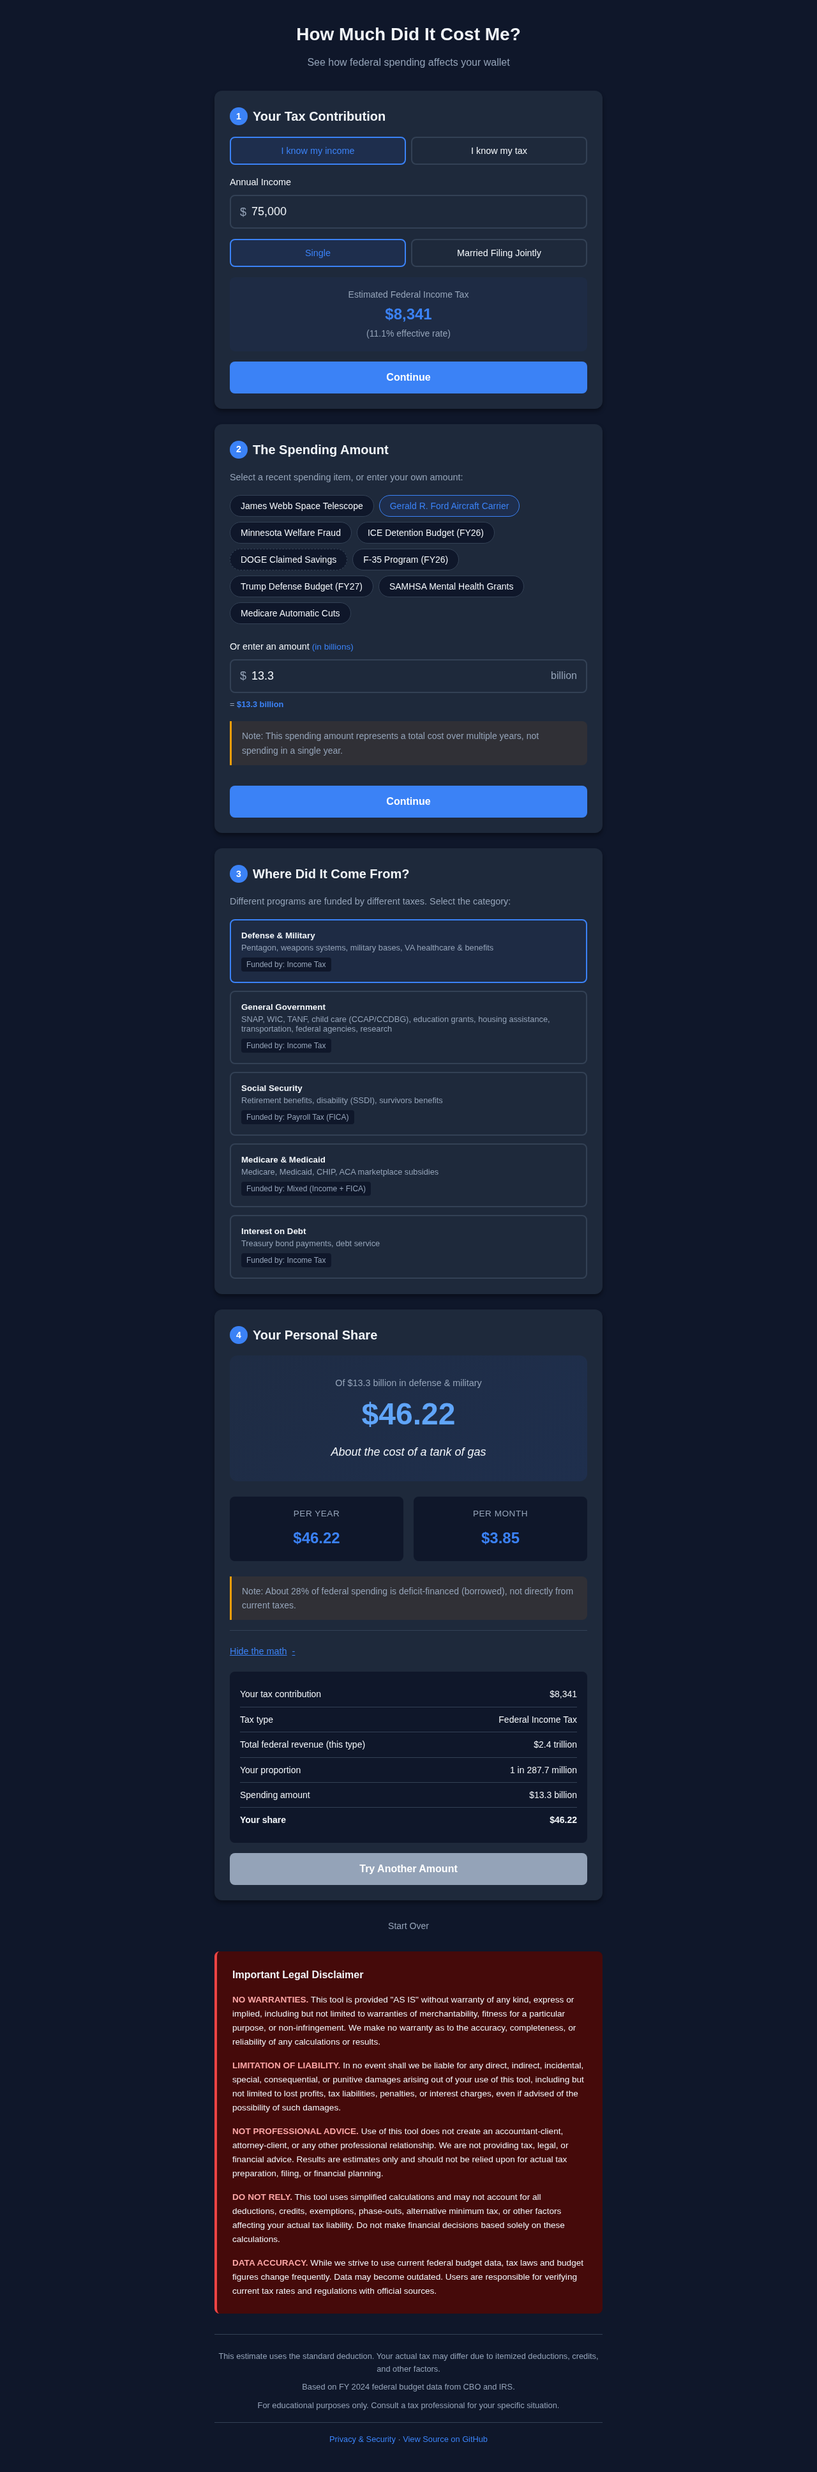
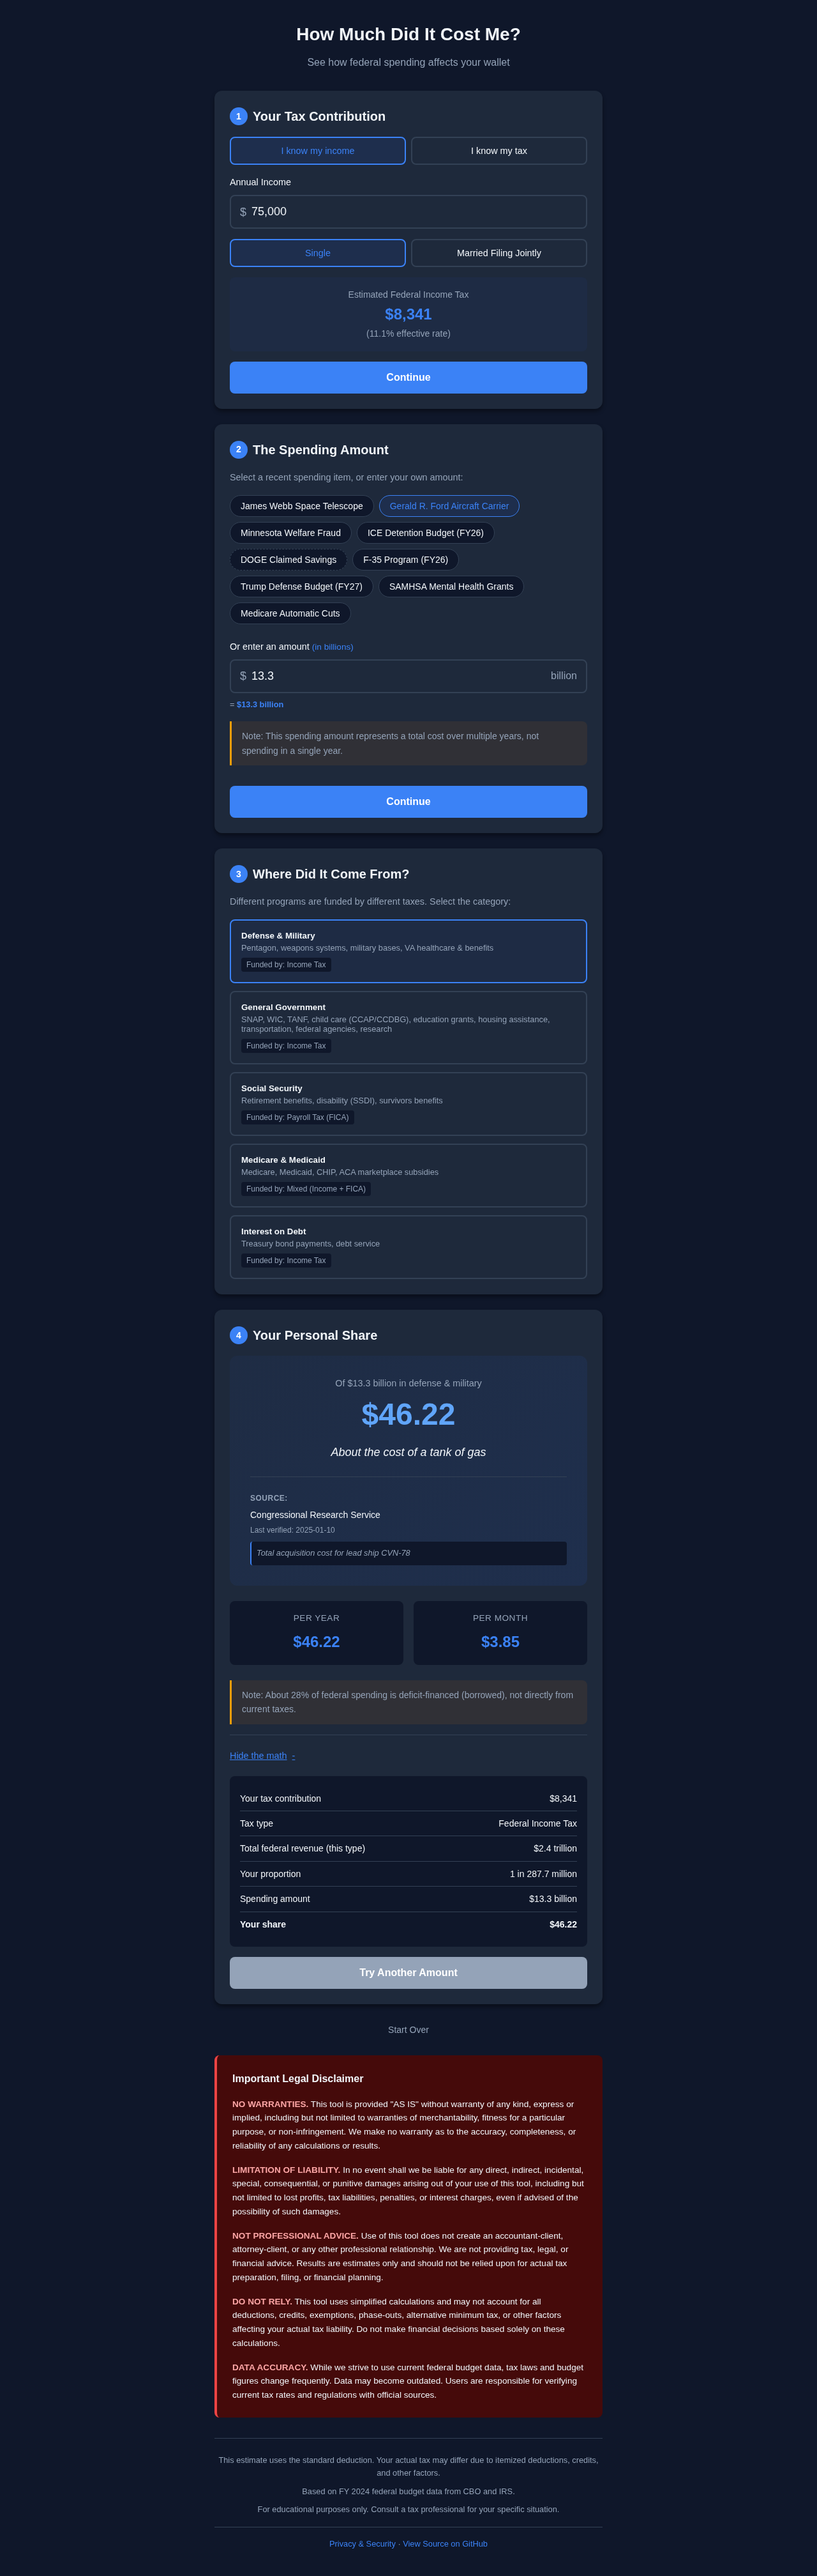
Add source annotations to spending items
Display data sources for weekly trending spending figures throughout the UI:
- Chips show source and verification date on hover (browser tooltip)
- Results page displays full source info with notes when item is selected
- Source info automatically updates when weekly workflow adds new data
- Manual spending entries correctly show no source information

Changed region(s): [[0.25, 0.0, 0.75, 0.9922], [0.5312, 0.0, 0.625, 0.062]]

diff --git a/js/app.js b/js/app.js
@@ -43,7 +43,8 @@ const app = {
     spendingAmount: 0,
     category: null,
     isMultiYear: false, // tracks if selected spending is multi-year
-    isSavings: false    // tracks if selected item is a savings (vs spending)
+    isSavings: false,   // tracks if selected item is a savings (vs spending)
+    selectedItemSource: null // tracks source info for selected item
   },
 
   // Initialize the app
@@ -214,9 +215,10 @@ const app = {
     const actualAmount = billions * 1_000_000_000;
     this.state.spendingAmount = actualAmount;
 
-    // Manual input is not multi-year and not savings
+    // Manual input is not multi-year, not savings, and has no source
     this.state.isMultiYear = false;
     this.state.isSavings = false;
+    this.state.selectedItemSource = null;
     document.getElementById('multiYearNote').style.display = 'none';
 
     // Update the hint to show the full dollar amount
@@ -276,25 +278,44 @@ const app = {
 
     container.innerHTML = '';
     EXAMPLE_AMOUNTS.forEach((item, index) => {
+      // Find the corresponding entry in NOTABLE_SPENDING to get source info
+      let sourceInfo = null;
+      for (const key in NOTABLE_SPENDING) {
+        if (NOTABLE_SPENDING[key].label === item.label) {
+          sourceInfo = NOTABLE_SPENDING[key];
+          break;
+        }
+      }
+
       const btn = document.createElement('button');
       btn.type = 'button';
       btn.className = item.isSavings ? 'chip savings' : 'chip';
       btn.dataset.index = index;
       btn.dataset.value = item.value;
       btn.dataset.savings = item.isSavings ? 'true' : 'false';
+
+      // Add source information as data attribute and tooltip
+      if (sourceInfo) {
+        btn.dataset.source = sourceInfo.source;
+        btn.dataset.lastVerified = sourceInfo.lastVerified;
+        btn.dataset.notes = sourceInfo.notes || '';
+        btn.title = `Source: ${sourceInfo.source}\nLast verified: ${sourceInfo.lastVerified}`;
+      }
+
       btn.textContent = item.label;
-      btn.onclick = () => this.selectChip(index, item.value, item.category || null, item.multiYear || false, item.isSavings || false);
+      btn.onclick = () => this.selectChip(index, item.value, item.category || null, item.multiYear || false, item.isSavings || false, sourceInfo);
       container.appendChild(btn);
     });
   },
 
   // Select a chip and highlight it
-  selectChip(index, amount, category, multiYear = false, isSavings = false) {
+  selectChip(index, amount, category, multiYear = false, isSavings = false, sourceInfo = null) {
     // Update visual selection
     document.querySelectorAll('#spendingChips .chip').forEach(chip => {
       chip.classList.toggle('selected', chip.dataset.index === String(index));
     });
     this.state.selectedChipIndex = index;
+    this.state.selectedItemSource = sourceInfo;
 
     // Set the spending amount
     this.setSpending(amount, category, multiYear, isSavings);
@@ -349,6 +370,20 @@ const app = {
       document.getElementById('resultCategory').textContent = result.category.toLowerCase();
     }
     document.getElementById('resultShare').textContent = formatCurrency(result.yourShare);
+
+    // Update source information if available
+    const sourceEl = document.getElementById('resultSource');
+    if (this.state.selectedItemSource && this.state.selectedItemSource.source) {
+      sourceEl.innerHTML = `
+        <div class="source-label">Source:</div>
+        <div class="source-text">${this.state.selectedItemSource.source}</div>
+        <div class="source-verified">Last verified: ${this.state.selectedItemSource.lastVerified}</div>
+        ${this.state.selectedItemSource.notes ? `<div class="source-notes">${this.state.selectedItemSource.notes}</div>` : ''}
+      `;
+      sourceEl.style.display = 'block';
+    } else {
+      sourceEl.style.display = 'none';
+    }
 
     // Get comparison
     const annualTax = this.state.incomeTax + this.state.ficaTax;
@@ -432,7 +467,8 @@ const app = {
       spendingAmount: 0,
       category: null,
       isMultiYear: false,
-      isSavings: false
+      isSavings: false,
+      selectedItemSource: null
     };
 
     // Reset UI

diff --git a/css/styles.css b/css/styles.css
@@ -269,6 +269,7 @@ header p {
   font-size: 0.875rem;
   transition: all 0.2s;
   color: var(--color-text);
+  position: relative;
 }
 
 .chip:hover {
@@ -301,6 +302,11 @@ header p {
   border-color: var(--color-success);
   border-style: solid;
   color: var(--color-success);
+}
+
+/* Chip tooltips - browser native title attribute will be used */
+.chip[title] {
+  cursor: help;
 }
 
 /* Category Selector */
@@ -386,6 +392,45 @@ header p {
   color: var(--color-text);
   margin-top: 1rem;
   font-style: italic;
+}
+
+.result-source {
+  margin-top: 1.5rem;
+  padding-top: 1.5rem;
+  border-top: 1px solid var(--color-border);
+  text-align: left;
+}
+
+.source-label {
+  font-size: 0.75rem;
+  font-weight: 600;
+  text-transform: uppercase;
+  letter-spacing: 0.5px;
+  color: var(--color-text-muted);
+  margin-bottom: 0.25rem;
+}
+
+.source-text {
+  font-size: 0.875rem;
+  color: var(--color-text);
+  font-weight: 500;
+}
+
+.source-verified {
+  font-size: 0.75rem;
+  color: var(--color-text-muted);
+  margin-top: 0.25rem;
+}
+
+.source-notes {
+  font-size: 0.8rem;
+  color: var(--color-text-muted);
+  margin-top: 0.5rem;
+  font-style: italic;
+  padding: 0.5rem;
+  background: var(--color-bg);
+  border-radius: 4px;
+  border-left: 2px solid var(--color-primary);
 }
 
 /* Time Breakdown */

diff --git a/index.html b/index.html
@@ -152,6 +152,7 @@
         </div>
         <div class="result-amount" id="resultShare">$0.00</div>
         <div class="result-comparison" id="resultComparison"></div>
+        <div id="resultSource" class="result-source" style="display: none;"></div>
       </div>
 
       <div class="time-breakdown">
